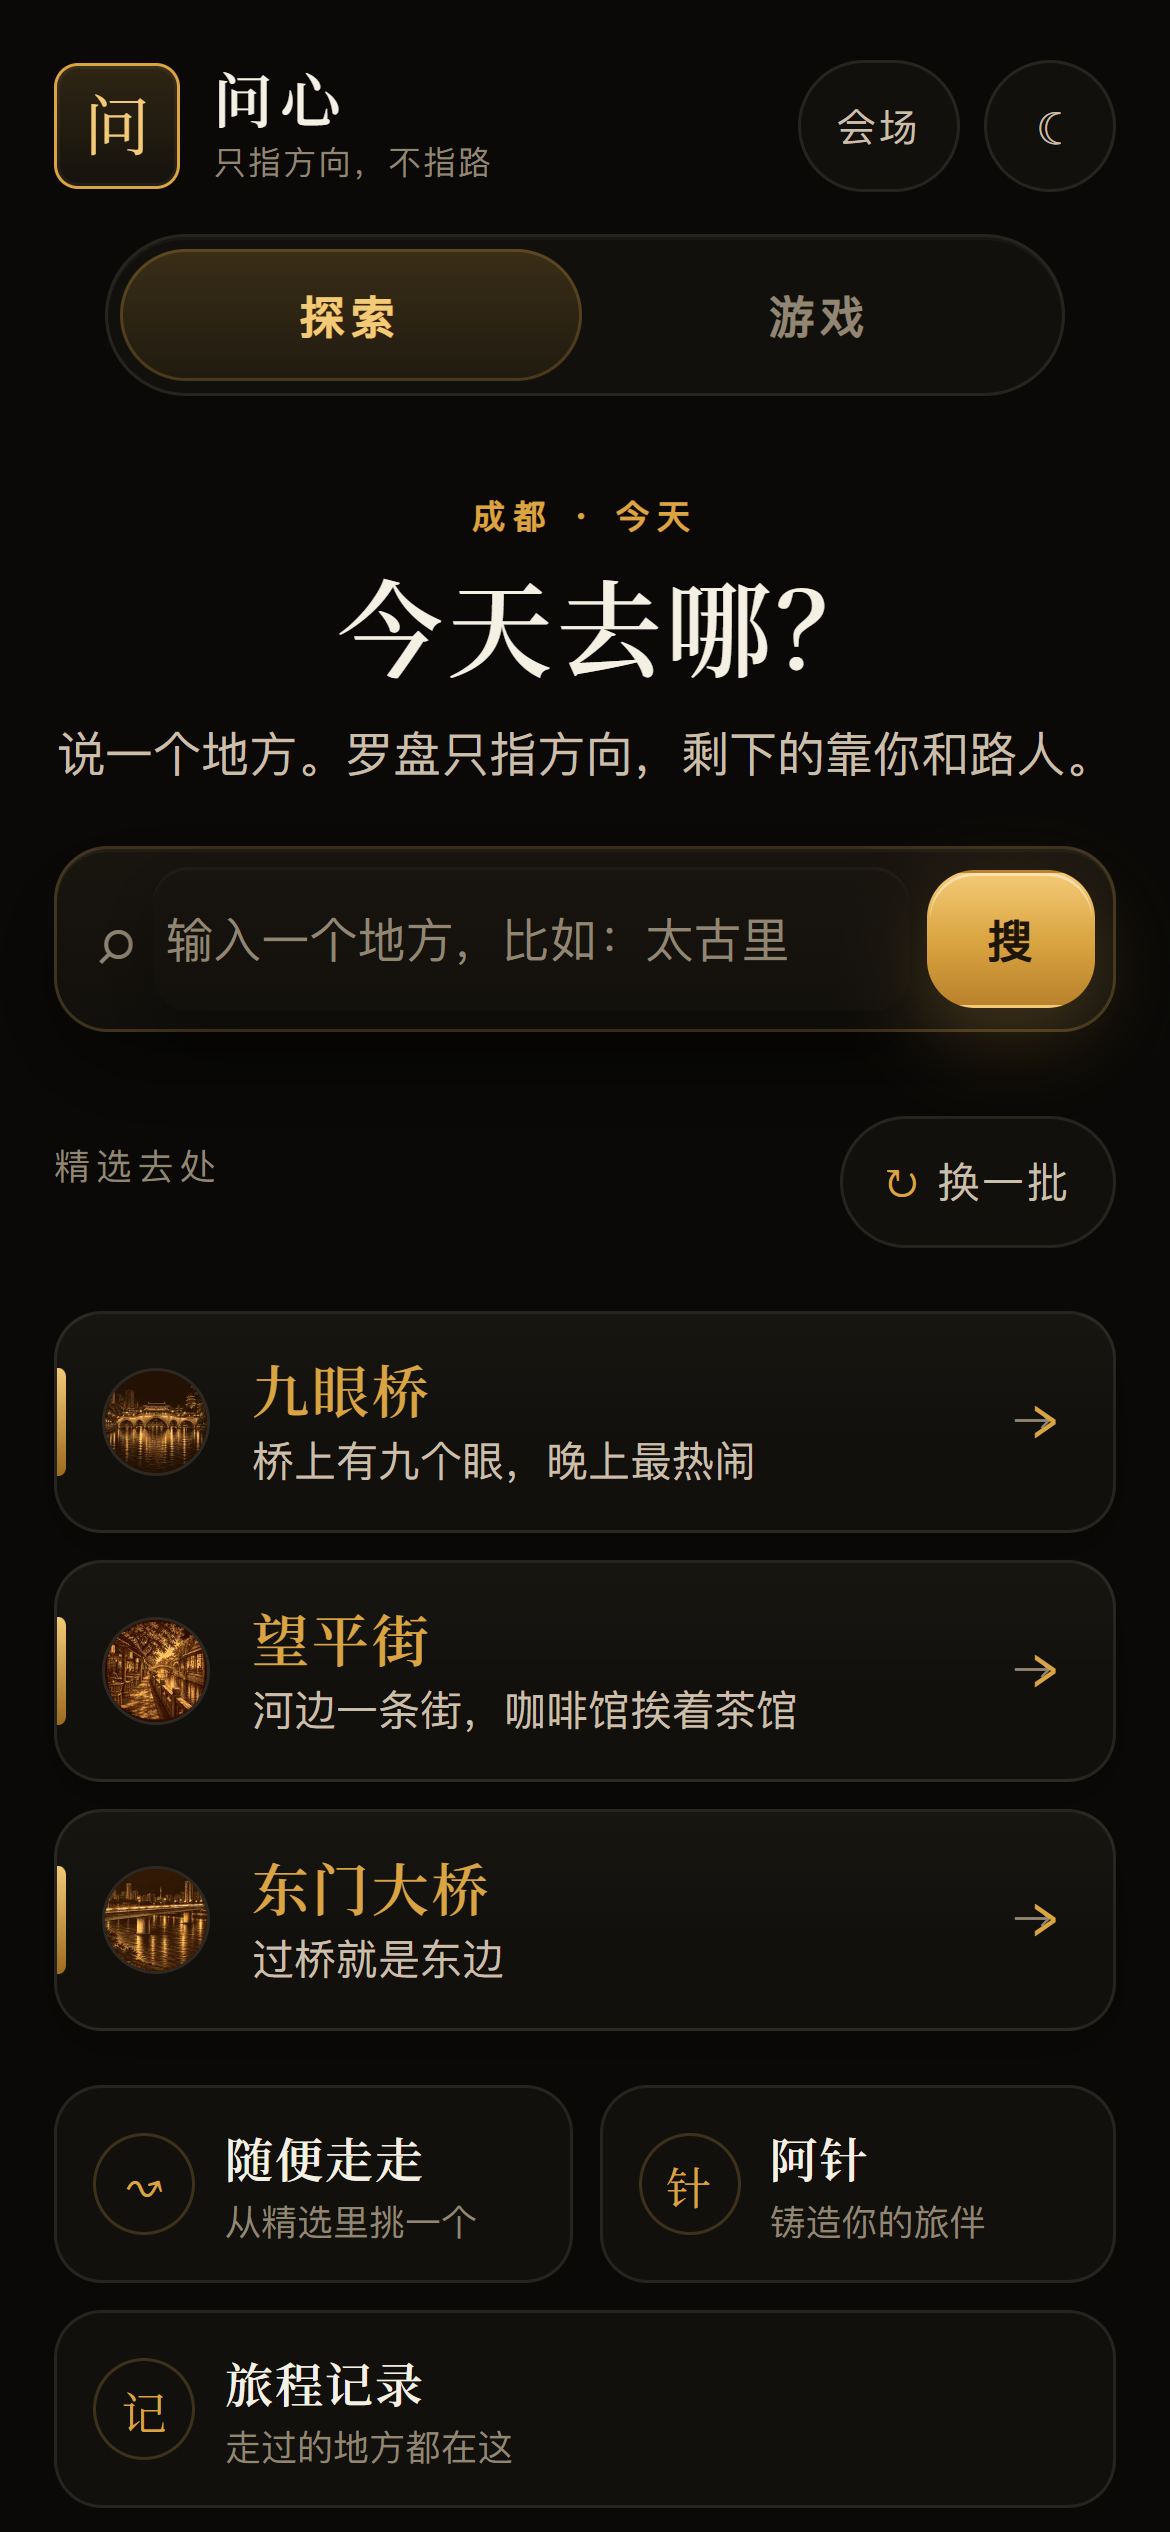
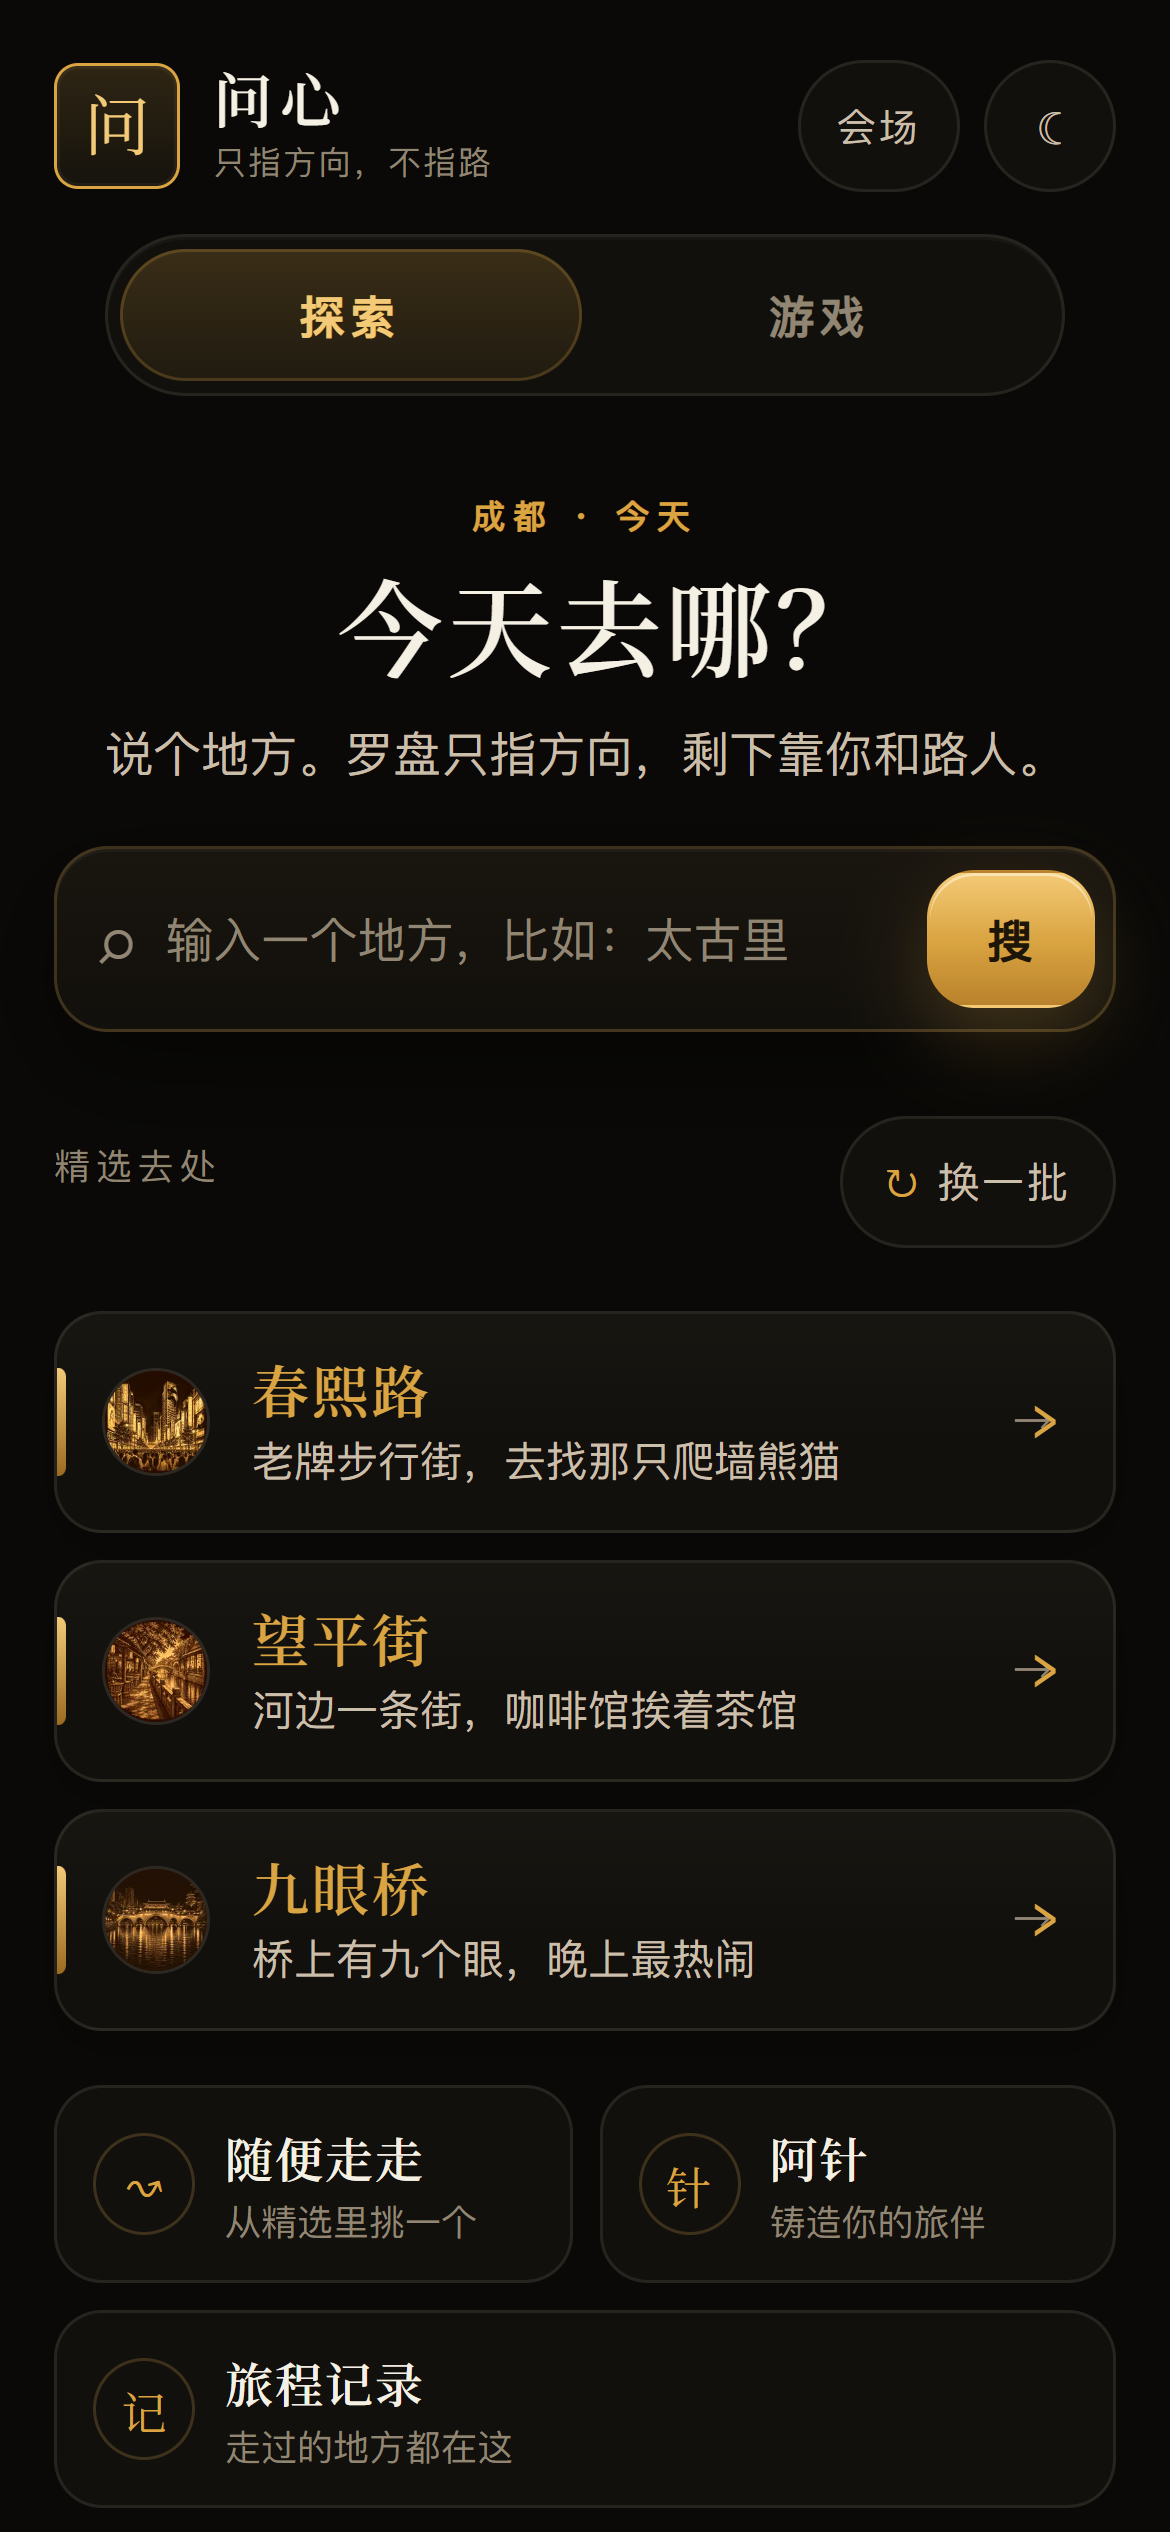
docs: 截图跟上线上的 v26；补一张桌面版
- 01-home 重拍：文案已精简成一行，带地标缩略图
- 新增 04-desktop：1280 宽两栏，主应用右侧是罗盘
- demo.mp4 按约定不入库

diff --git a/submission/README.md b/submission/README.md
@@ -14,7 +14,7 @@
 | 2 | 主角卡 1080×1350 | ✅ 两版都在 | `protagonist-card-3panel.png`（赛道规格三格）/ `protagonist-card.png`（产品内一键生成的原样卡） |
 | 3 | 演示视频 | 🟡 **40 秒无旁白兜底版已有** | `demo.mp4`（720×1280 / H.264 / 39.9 s / 516 KB，字幕已烧进画面） |
 | 4 | 作品说明 ≤300 字 | ✅ 230 字 | `description.md` |
-| 5 | 截图 3 张 | ✅ 390×844 深色 | `screenshots/` |
+| 5 | 截图 3 张 + 桌面 1 张 | ✅ 390×844 深色；另附 1280 桌面版 | `screenshots/`（`04-desktop.png` 是加分项，可不传） |
 | 6 | AI 管线说明 | ✅ | `ai-pipeline.md` |
 | 7 | 团队信息 | ✅ 已填赛事表单（2026-10-25，不进仓库） | `team.md` 只留角色 |
 
